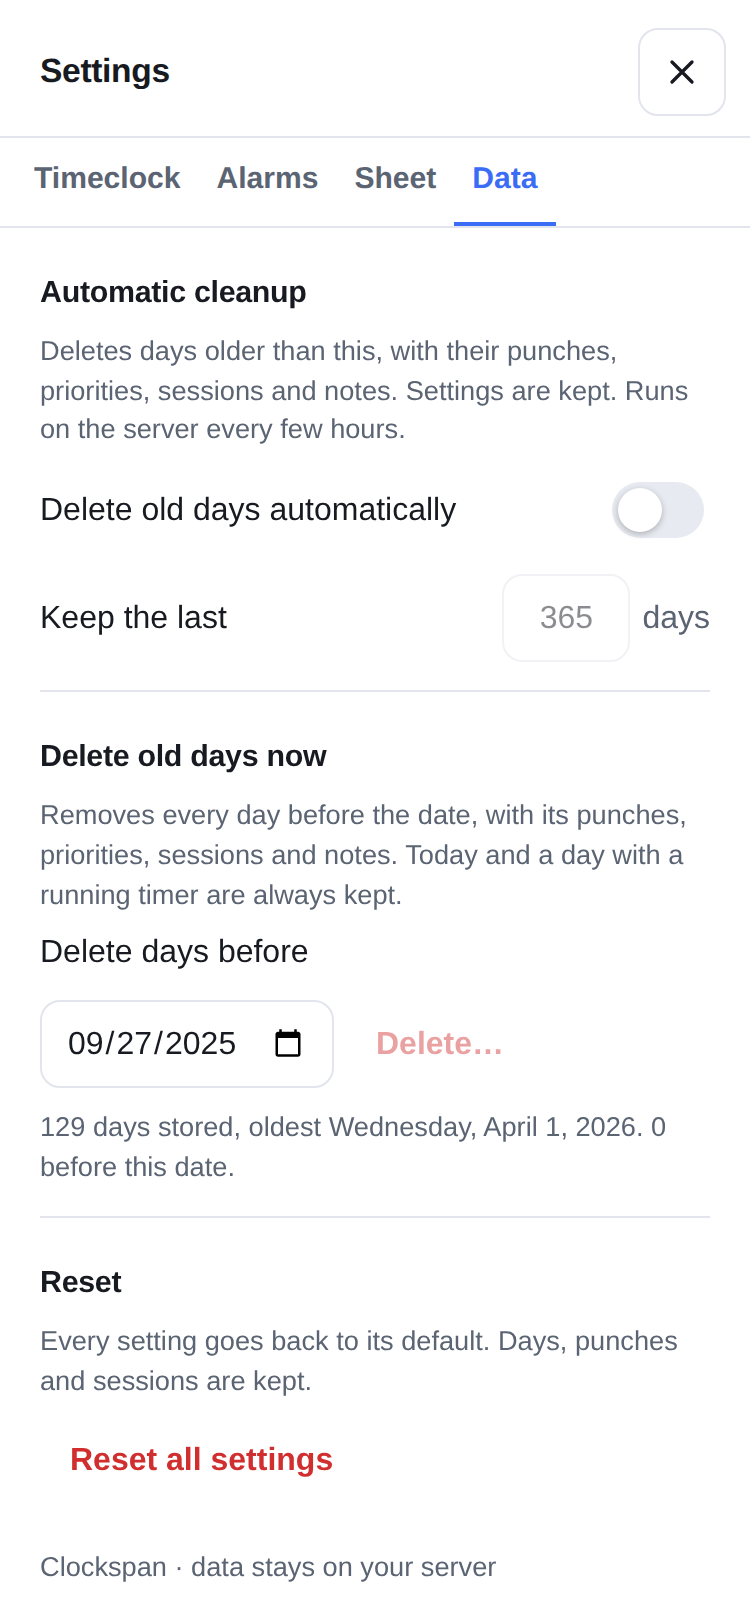
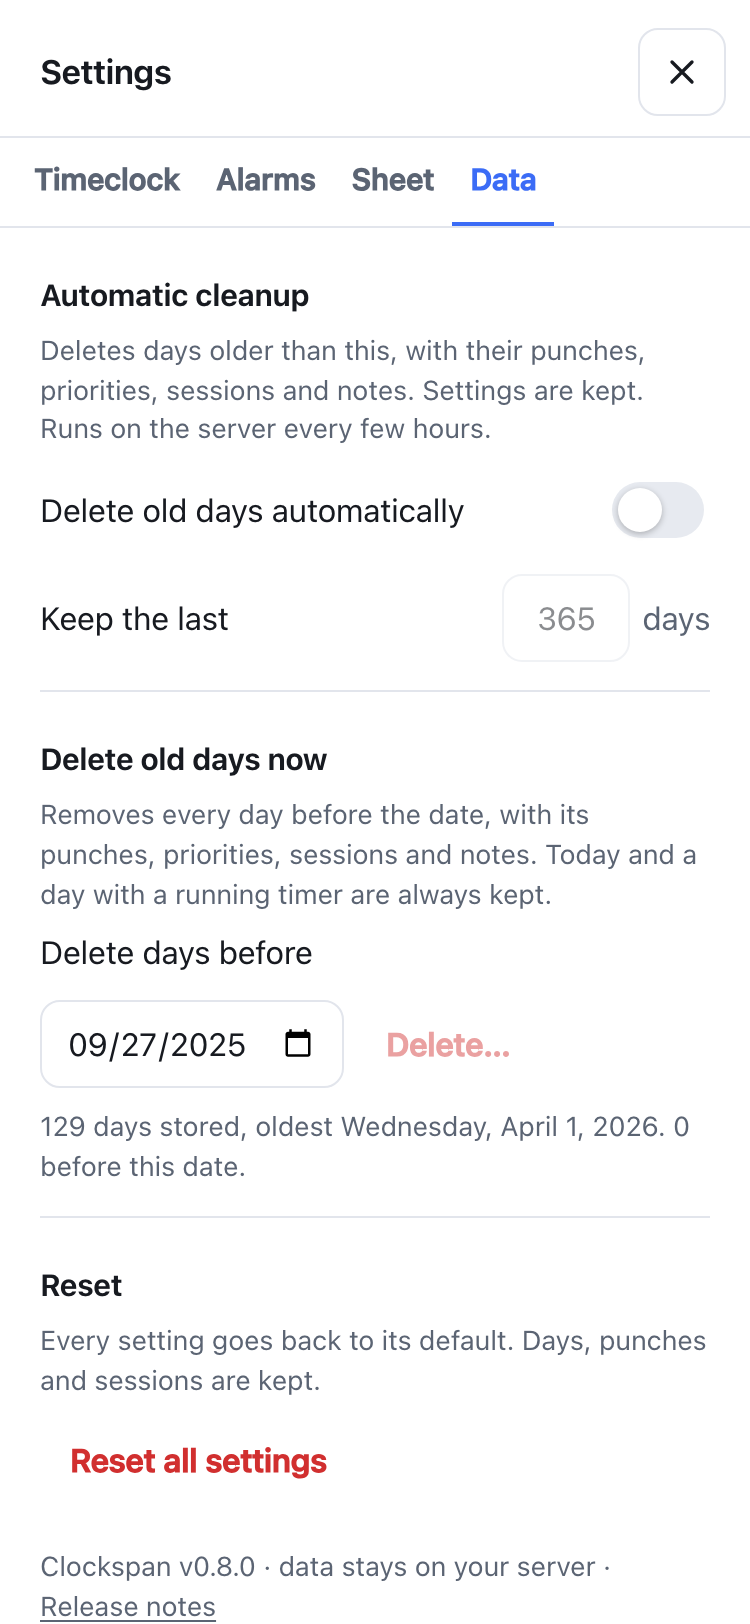
Show the running version in Settings
Settings → Data's last line now reads "Clockspan vX.Y.Z · data stays on
your server · Release notes", with the link going to the GitHub
releases. Unraid says an update is ready and its Change Log links to
the releases; this line says which one is running.

The number is package.json's version, inlined at build time through
Vite's define. The bundle and the server ship in one image, so no API
change is needed. An edge build shows the last release's number.

The link keeps the muted line's colour with an underline and joins the
coarse-pointer hit-area block (16 px of text, 44 px to tap).

diff --git a/client/src/styles.css b/client/src/styles.css
@@ -2165,6 +2165,14 @@ dialog.dialog::backdrop {
     grid-template-columns: 1fr 1fr auto;
   }
 }
+/* The Data tab's last line keeps its muted colour for the link and marks it with the underline:
+   the accent is only just 4.5:1 on white, too close at this size. */
+.about-link {
+  color: inherit;
+  text-decoration: underline;
+  text-underline-offset: 2px;
+  white-space: nowrap;
+}
 
 /* ---------- touch targets ---------- */
 /* On a touch screen a tap needs about 44 px to land, while the compact controls keep the size
@@ -2180,7 +2188,8 @@ dialog.dialog::backdrop {
   .banner-action,
   .log-delete,
   .punch-pair .punch-remove,
-  .timer-add-priority {
+  .timer-add-priority,
+  .about-link {
     position: relative;
   }
   .chip::after,
@@ -2190,7 +2199,8 @@ dialog.dialog::backdrop {
   .banner-action::after,
   .log-delete::after,
   .punch-pair .punch-remove::after,
-  .timer-add-priority::after {
+  .timer-add-priority::after,
+  .about-link::after {
     content: '';
     position: absolute;
     inset: var(--hit-inset);
@@ -2226,6 +2236,11 @@ dialog.dialog::backdrop {
   /* 32 px, 12 px from the chips above and the quick buttons below: 44 px. */
   .timer-add-priority {
     --hit-inset: -6px 0;
+  }
+  /* 16 px of text, 43 px under the Reset button when the line wraps and off to its side when
+     it doesn't, 26 px above the panel's foot: 44 px. */
+  .about-link {
+    --hit-inset: -14px -4px;
   }
   /* The running label clips its overflow (a long label ends in an ellipsis), which would cut
      off an ::after as well; more padding, taken back by a negative margin, grows the button

diff --git a/vite.config.ts b/vite.config.ts
@@ -1,5 +1,6 @@
 import { defineConfig } from 'vitest/config';
 import react from '@vitejs/plugin-react';
+import { version } from './package.json';
 
 // The client lives in ./client; the built bundle goes to ./dist/client, which
 // the Express server serves in production. In dev, Vite proxies API and auth
@@ -7,6 +8,9 @@ import react from '@vitejs/plugin-react';
 export default defineConfig({
   root: 'client',
   plugins: [react()],
+  // Shown in Settings → Data. The bundle and the server ship in one image, so this is the running
+  // version; an `edge` build carries the last release's number until the next bump.
+  define: { __APP_VERSION__: JSON.stringify(version) },
   build: {
     outDir: '../dist/client',
     emptyOutDir: true,

diff --git a/client/src/components/SettingsDialog.tsx b/client/src/components/SettingsDialog.tsx
@@ -251,7 +251,12 @@ export function SettingsDialog({ onClose }: { onClose: () => void }) {
                 </button>
               </div>
             </Section>
-            <p className="muted small">Clockspan · data stays on your server</p>
+            <p className="muted small">
+              Clockspan v{__APP_VERSION__} · data stays on your server ·{' '}
+              <a className="about-link" href="https://github.com/geransmith/clockspan/releases" target="_blank" rel="noreferrer">
+                Release notes
+              </a>
+            </p>
           </>
         );
       case 'account':

diff --git a/client/src/vite-env.d.ts b/client/src/vite-env.d.ts
@@ -1,0 +1,2 @@
+// Replaced at build time with package.json's version (`define` in vite.config.ts).
+declare const __APP_VERSION__: string;
